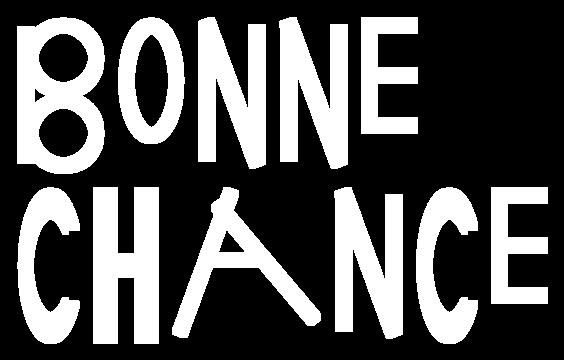
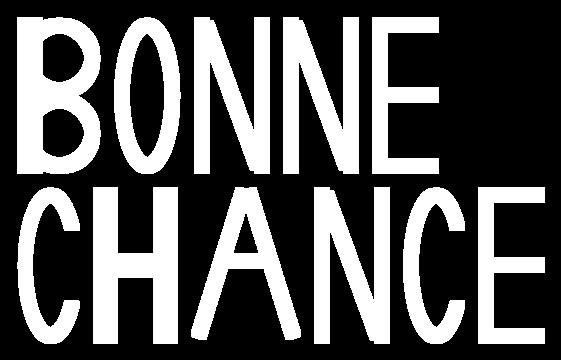
Commit final

diff --git a/src/main/java/Letter/LetterFactory.java b/src/main/java/Letter/LetterFactory.java
@@ -22,13 +22,13 @@ public final class LetterFactory {
         BaseShape letterA = new BaseShape();
 
         Rectangle left = new Rectangle(halfStripeThickness, maxHeight);
-        left.rotate(left.getCoords(),  (11.5 + Math.PI) / 6);
-        left.translate(left.getCoords(), new Point2d( 30.0, 0.0));
+        left.rotate(left.getCoords(),  -0.3);
+        left.translate(left.getCoords(), new Point2d( 25.0, 0.0));
         letterA.addAll(left.getCoords());
 
         Rectangle right = new Rectangle(halfStripeThickness, maxHeight);
-        right.rotate(right.getCoords(),  Math.PI / 9);
-        right.translate(right.getCoords(), new Point2d( -30.0,  0.0));
+        right.rotate(right.getCoords(),  0.3);
+        right.translate(right.getCoords(), new Point2d( -25.0,  0.0));
         letterA.addAll(right.getCoords());
 
         Rectangle middle = new Rectangle( halfMaxWidth + 10, halfStripeThickness);
@@ -44,28 +44,18 @@ public final class LetterFactory {
      */
 
     public static BaseShape create_B() {
-        // return null;
-        double width = halfMaxWidth - stripeThickness;
-        double height = maxHeight - stripeThickness;
-
-        // create one rectangle and 2 ellipses
-        BaseShape left = new Rectangle(width, height);
+        BaseShape left = new Rectangle(stripeThickness, maxHeight);
         BaseShape top = new Circle(halfMaxHeight);
         BaseShape bottom = new Circle(halfMaxHeight);
 
         top.remove(new Circle(halfMaxHeight - stripeThickness));
         bottom.remove(new Circle(halfMaxHeight - stripeThickness));
+        top.translate(top.getCoords(), new Point2d(0.0, halfMaxHeight / 2));
+        bottom.translate(bottom.getCoords(), new Point2d(0.0, -halfMaxHeight / 2));
+        left.translate(left.getCoords(), new Point2d(-halfMaxWidth, 0.0));
 
-        // translate the shapes to the correct position
-        top = new BaseShape(top.translate(top.getCoords(), new Point2d(0.0, halfMaxHeight / 2)));
-        bottom = new BaseShape(
-                bottom.translate(bottom.getCoords(), new Point2d(0.0, -halfMaxHeight / 2)));
-        left = new BaseShape(left.translate(left.getCoords(), new Point2d(-halfMaxHeight / 2, 0.0)));
-
-        // create the letter B
         BaseShape letterB = new BaseShape();
         letterB.add(left).add(top).add(bottom);
-
         return letterB;
     }
 
@@ -74,18 +64,18 @@ public final class LetterFactory {
      * @return BaseShape containing the letter C
      */
     public static BaseShape create_C() {
-        double a = maxHeight;
-        double b = maxWidth;
+        BaseShape c = new BaseShape();
+        Ellipse outside = new Ellipse(maxWidth, maxHeight);
+        Ellipse inside = new Ellipse(maxWidth-stripeThickness, maxHeight-stripeThickness);
+        c.add(outside);
+        c.remove(inside);
 
-        BaseShape letterC = new Ellipse(b, a);
-
-        BaseShape removeEllipse = new Ellipse(b / 1.5, a / 1.5);
         BaseShape removeRect = new Rectangle(halfMaxWidth, halfMaxHeight);
-        removeRect = new BaseShape(removeRect.translate(removeRect.getCoords(), new Point2d(halfMaxWidth, 0.0)));
-        letterC.remove(removeEllipse);
-        letterC.remove(removeRect);
+        removeRect.translate(removeRect.getCoords(), new Point2d(halfMaxWidth, 0.0));
 
-        return letterC;
+        c.remove(removeRect);
+
+        return c;
     }
 
 
@@ -95,13 +85,13 @@ public final class LetterFactory {
      */
     public static BaseShape create_E() {
         BaseShape e = new BaseShape();
-        Rectangle topE = new Rectangle(50.0, 10.0);
-        Rectangle middleE = new Rectangle(50.0, 10.0);
-        Rectangle bottomE = new Rectangle(50.0, 10.0);
-        Rectangle vertical = new Rectangle(10.0, 100.0);
-        Point2d translationMiddle = new Point2d(0.0, 50.0);
-        Point2d translationVertical = new Point2d(-20.0, 50.0);
-        Point2d translationBottom = new Point2d(0.0, 100.0);
+        Rectangle topE = new Rectangle(maxWidth-halfStripeThickness, halfStripeThickness);
+        Rectangle middleE = new Rectangle(maxWidth-halfStripeThickness, halfStripeThickness);
+        Rectangle bottomE = new Rectangle(maxWidth-halfStripeThickness, halfStripeThickness);
+        Rectangle vertical = new Rectangle(halfStripeThickness, maxHeight);
+        Point2d translationMiddle = new Point2d(0.0, halfMaxHeight-halfStripeThickness/2);
+        Point2d translationVertical = new Point2d(-halfMaxWidth, 0.0);
+        Point2d translationBottom = new Point2d(0.0, -halfMaxHeight+halfStripeThickness/2);
         vertical.translate(vertical.getCoords(), translationVertical);
         middleE.translate(middleE.getCoords(), translationMiddle);
         bottomE.translate(bottomE.getCoords(), translationBottom);
@@ -116,13 +106,12 @@ public final class LetterFactory {
 
         Rectangle leftSide = new Rectangle(stripeThickness, maxHeight);
         Rectangle rightSide = new Rectangle(stripeThickness, maxHeight);
-        Rectangle connector = new Rectangle(maxWidth - 2 * stripeThickness, stripeThickness);
+        Rectangle connector = new Rectangle(maxWidth, stripeThickness);
 
-        leftSide.translate(leftSide.getCoords(), new Point2d(-halfMaxWidth + halfStripeThickness, 0.0));
+        leftSide.translate(leftSide.getCoords(), new Point2d(-halfMaxWidth, 0.0));
 
-        rightSide.translate(rightSide.getCoords(), new Point2d(halfMaxWidth - halfStripeThickness, 0.0));
+        rightSide.translate(rightSide.getCoords(), new Point2d(halfMaxWidth, 0.0));
 
-        connector.translate(connector.getCoords(), new Point2d(0.0, 0.0)); // Pas de déplacement, mais ajustez si nécessaire
 
         h.add(leftSide);
         h.add(rightSide);
@@ -136,16 +125,14 @@ public final class LetterFactory {
      * @return BaseShape containing the letter N
      */
     public static BaseShape create_N() {
-        // return null;
-        double width = halfMaxWidth - stripeThickness;
-        double height = maxHeight - stripeThickness;
 
-        BaseShape left = new Rectangle(width, height);
-        BaseShape right = new Rectangle(width, height);
-        BaseShape middle = new Rectangle(width, maxHeight);
 
-        left = new BaseShape(left.translate(left.getCoords(), new Point2d(-halfMaxHeight / 3, 0.0)));
-        right = new BaseShape(right.translate(right.getCoords(), new Point2d(halfMaxHeight / 3, 0.0)));
+        BaseShape left = new Rectangle(halfStripeThickness, maxHeight);
+        BaseShape right = new Rectangle(halfStripeThickness, maxHeight);
+        BaseShape middle = new Rectangle(halfStripeThickness, maxHeight);
+
+        left = new BaseShape(left.translate(left.getCoords(), new Point2d(-halfMaxWidth, 0.0)));
+        right = new BaseShape(right.translate(right.getCoords(), new Point2d(halfMaxWidth, 0.0)));
 
         middle = new BaseShape(middle.rotate(middle.getCoords(), Math.toRadians(-20)));
 
@@ -162,8 +149,8 @@ public final class LetterFactory {
      */
     public static BaseShape create_O() {
         BaseShape o = new BaseShape();
-        Ellipse outside = new Ellipse(60.0, 120.0);
-        Ellipse inside = new Ellipse(40.0, 100.0);
+        Ellipse outside = new Ellipse(maxWidth, maxHeight);
+        Ellipse inside = new Ellipse(maxWidth-stripeThickness, maxHeight-stripeThickness);
         o.add(outside);
         o.remove(inside);
         return o;

diff --git a/src/main/java/Shape/Ellipse.java b/src/main/java/Shape/Ellipse.java
@@ -17,15 +17,15 @@ public class Ellipse extends BaseShape {
 
         for (double i = -a; i <= a; i += 0.5) {
             for (double j = -b; j <= b; j += 0.5) {
-                // Check if the point (i, j) is within the ellipse
+
                 double x = i;
                 double y = j;
 
-                // Use the parametric equations of the ellipse
+
                 double ellipseEquation = (x * x) / (a * a) + (y * y) / (b * b);
 
                 if (ellipseEquation <= 1.0) {
-                    // Add the point to the ellipse
+
                     this.add(new Point2d(i, j));
                 }
             }

diff --git a/src/main/java/Shape/Rectangle.java b/src/main/java/Shape/Rectangle.java
@@ -14,7 +14,6 @@ public class Rectangle extends BaseShape {
         Point2d topLeft = new Point2d(-width/2, height/2);
         Point2d topRight = new Point2d(width/2, height/2);
         Point2d bottomLeft = new Point2d(-width/2, -height/2);
-        Point2d bottomRight = new Point2d(width/2, -height/2);
 
         for( double x = topLeft.X() ; x <= topRight.X(); x += 0.5)
         {

diff --git a/src/main/java/Interface/Transform.java b/src/main/java/Interface/Transform.java
@@ -35,7 +35,6 @@ public class Transform implements Rotate, Translate{
         Collection<Point2d> translatedCoords = new ArrayList<>();
 
         for (Point2d point : coords) {
-            // Use the existing translate method from Point2d
             Point2d translatedPoint = point.translate(translateVector);
             translatedCoords.add(translatedPoint);
         }

diff --git a/src/main/java/Shape/BaseShape.java b/src/main/java/Shape/BaseShape.java
@@ -11,7 +11,7 @@ import java.util.stream.Collectors;
 public class BaseShape extends Transform implements Cloneable {
     private final Collection<Point2d> coords;
 
-//helper function to clone a list of points 
+
   public Collection<Point2d> cloneCoords(Collection<Point2d> coords) {
         return coords.stream().map(Point2d::clone).collect(Collectors.toList());
     }
